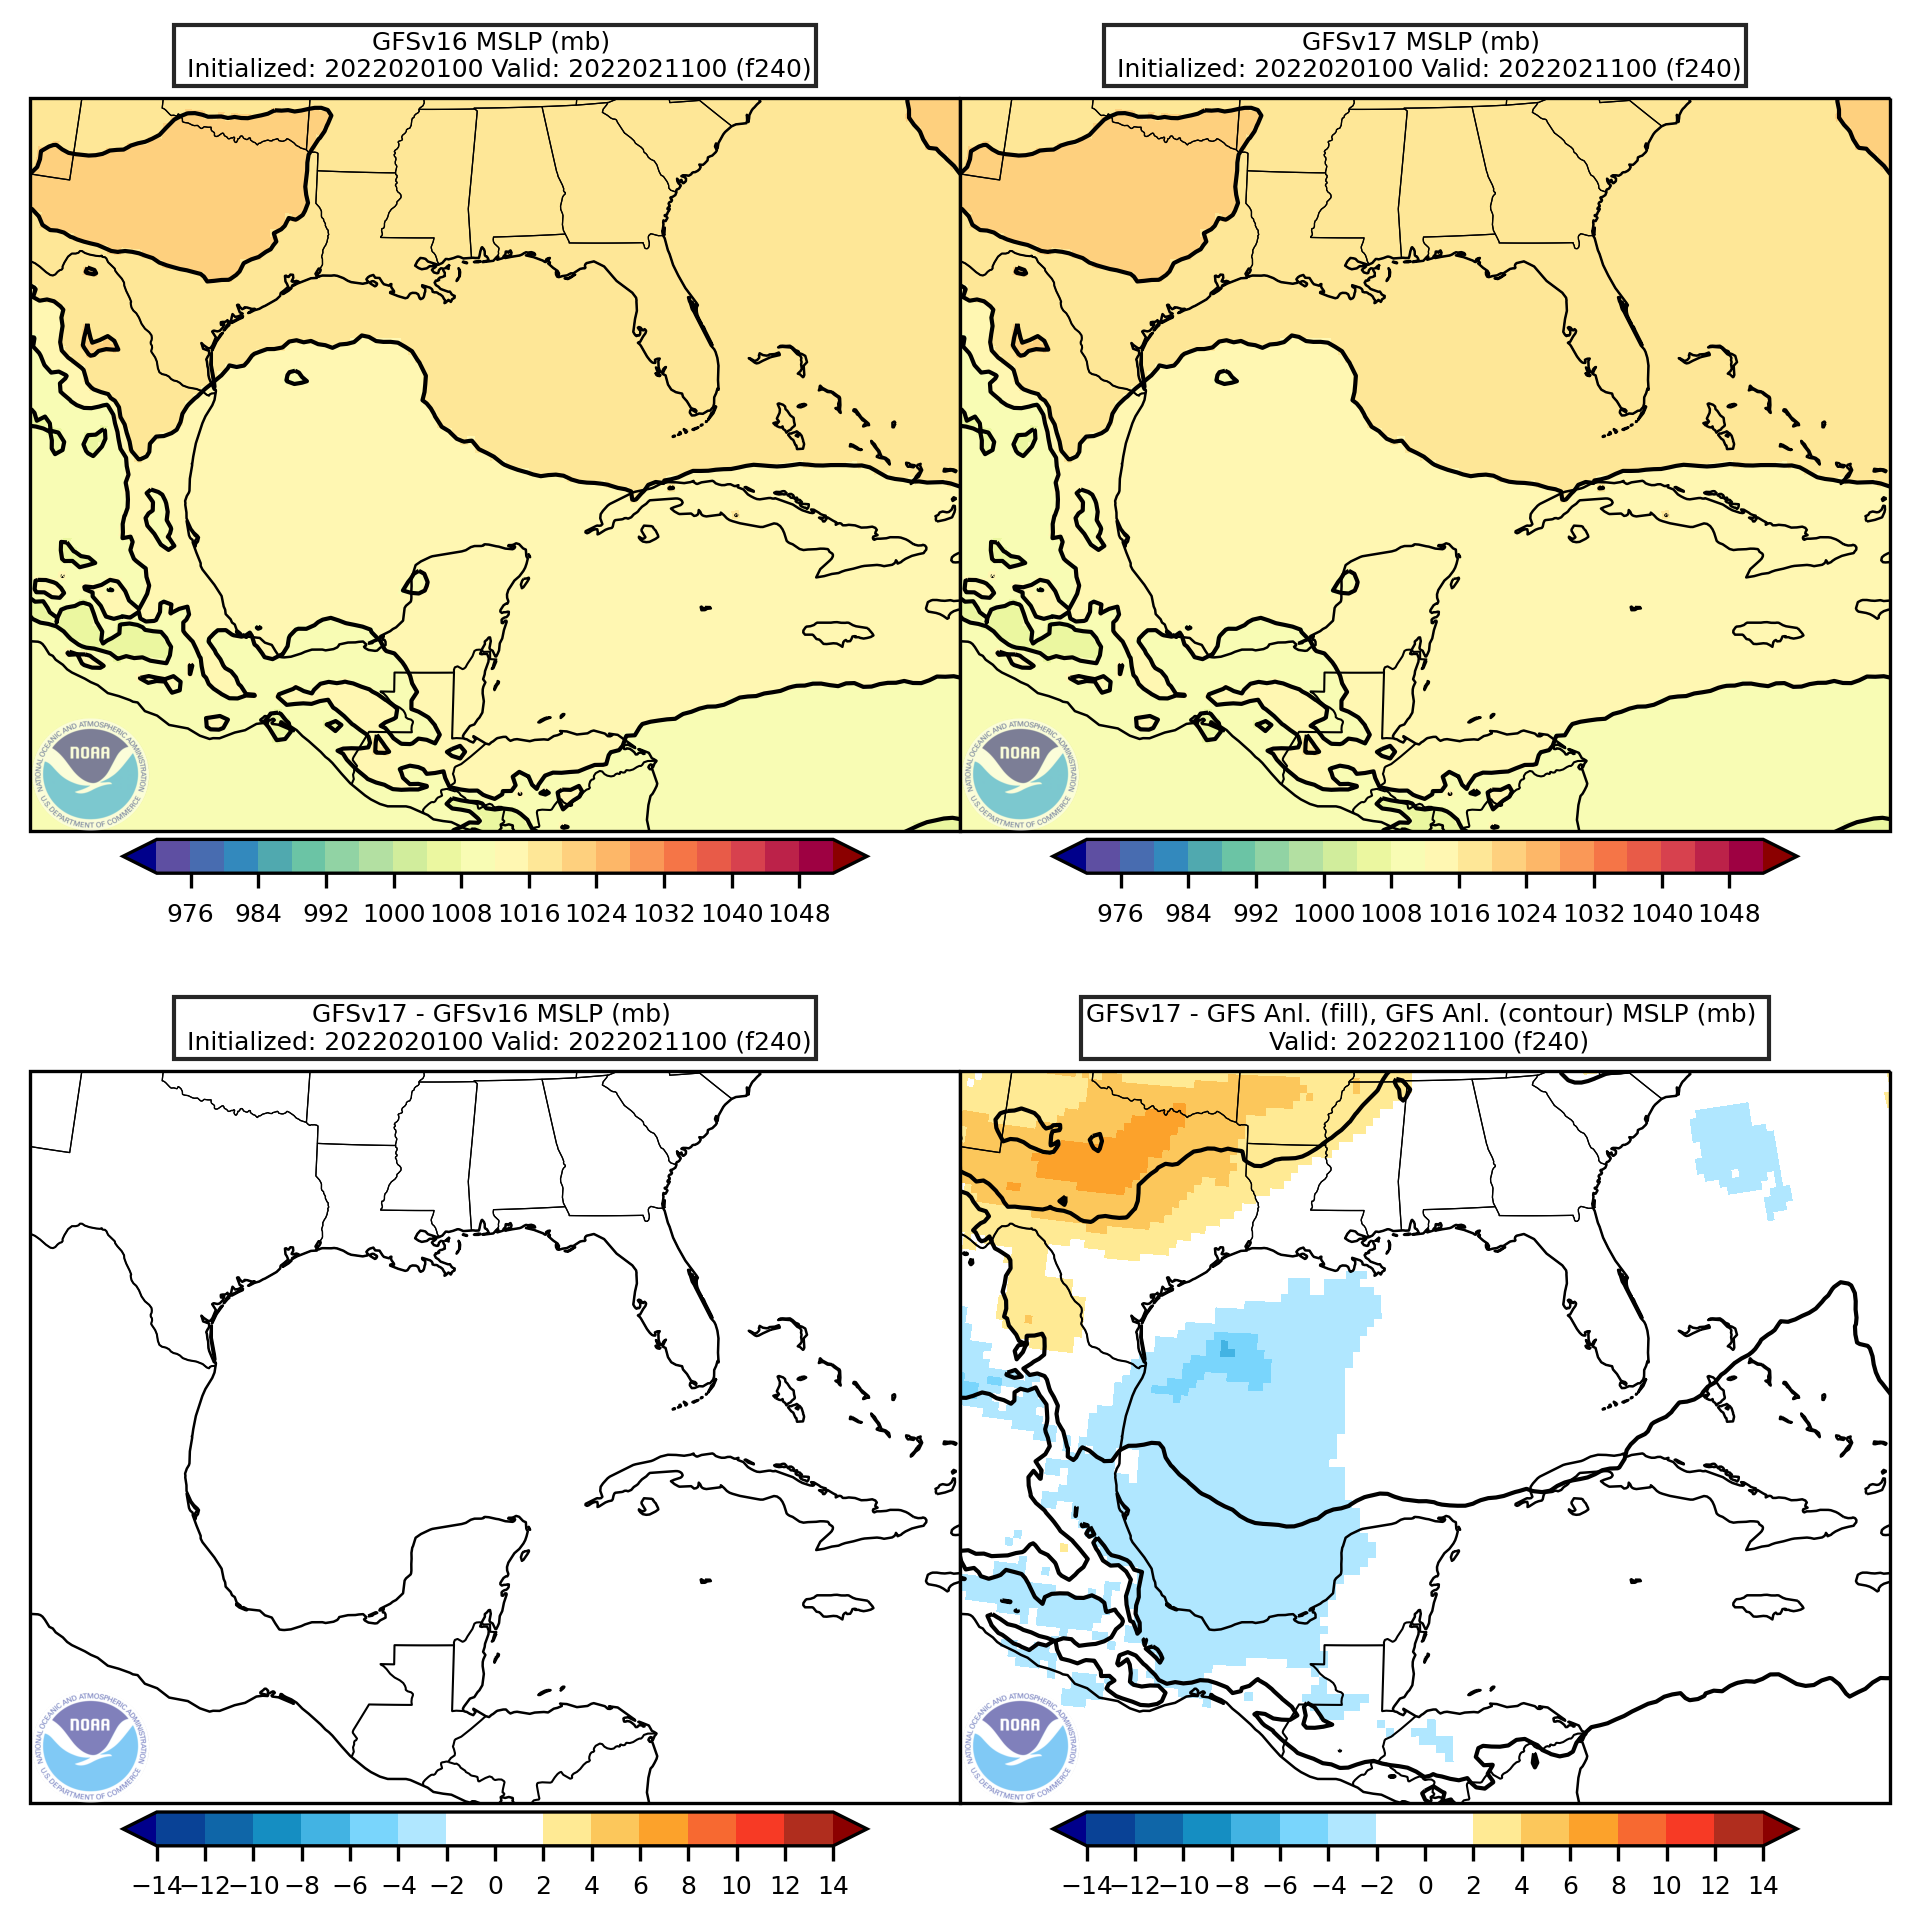
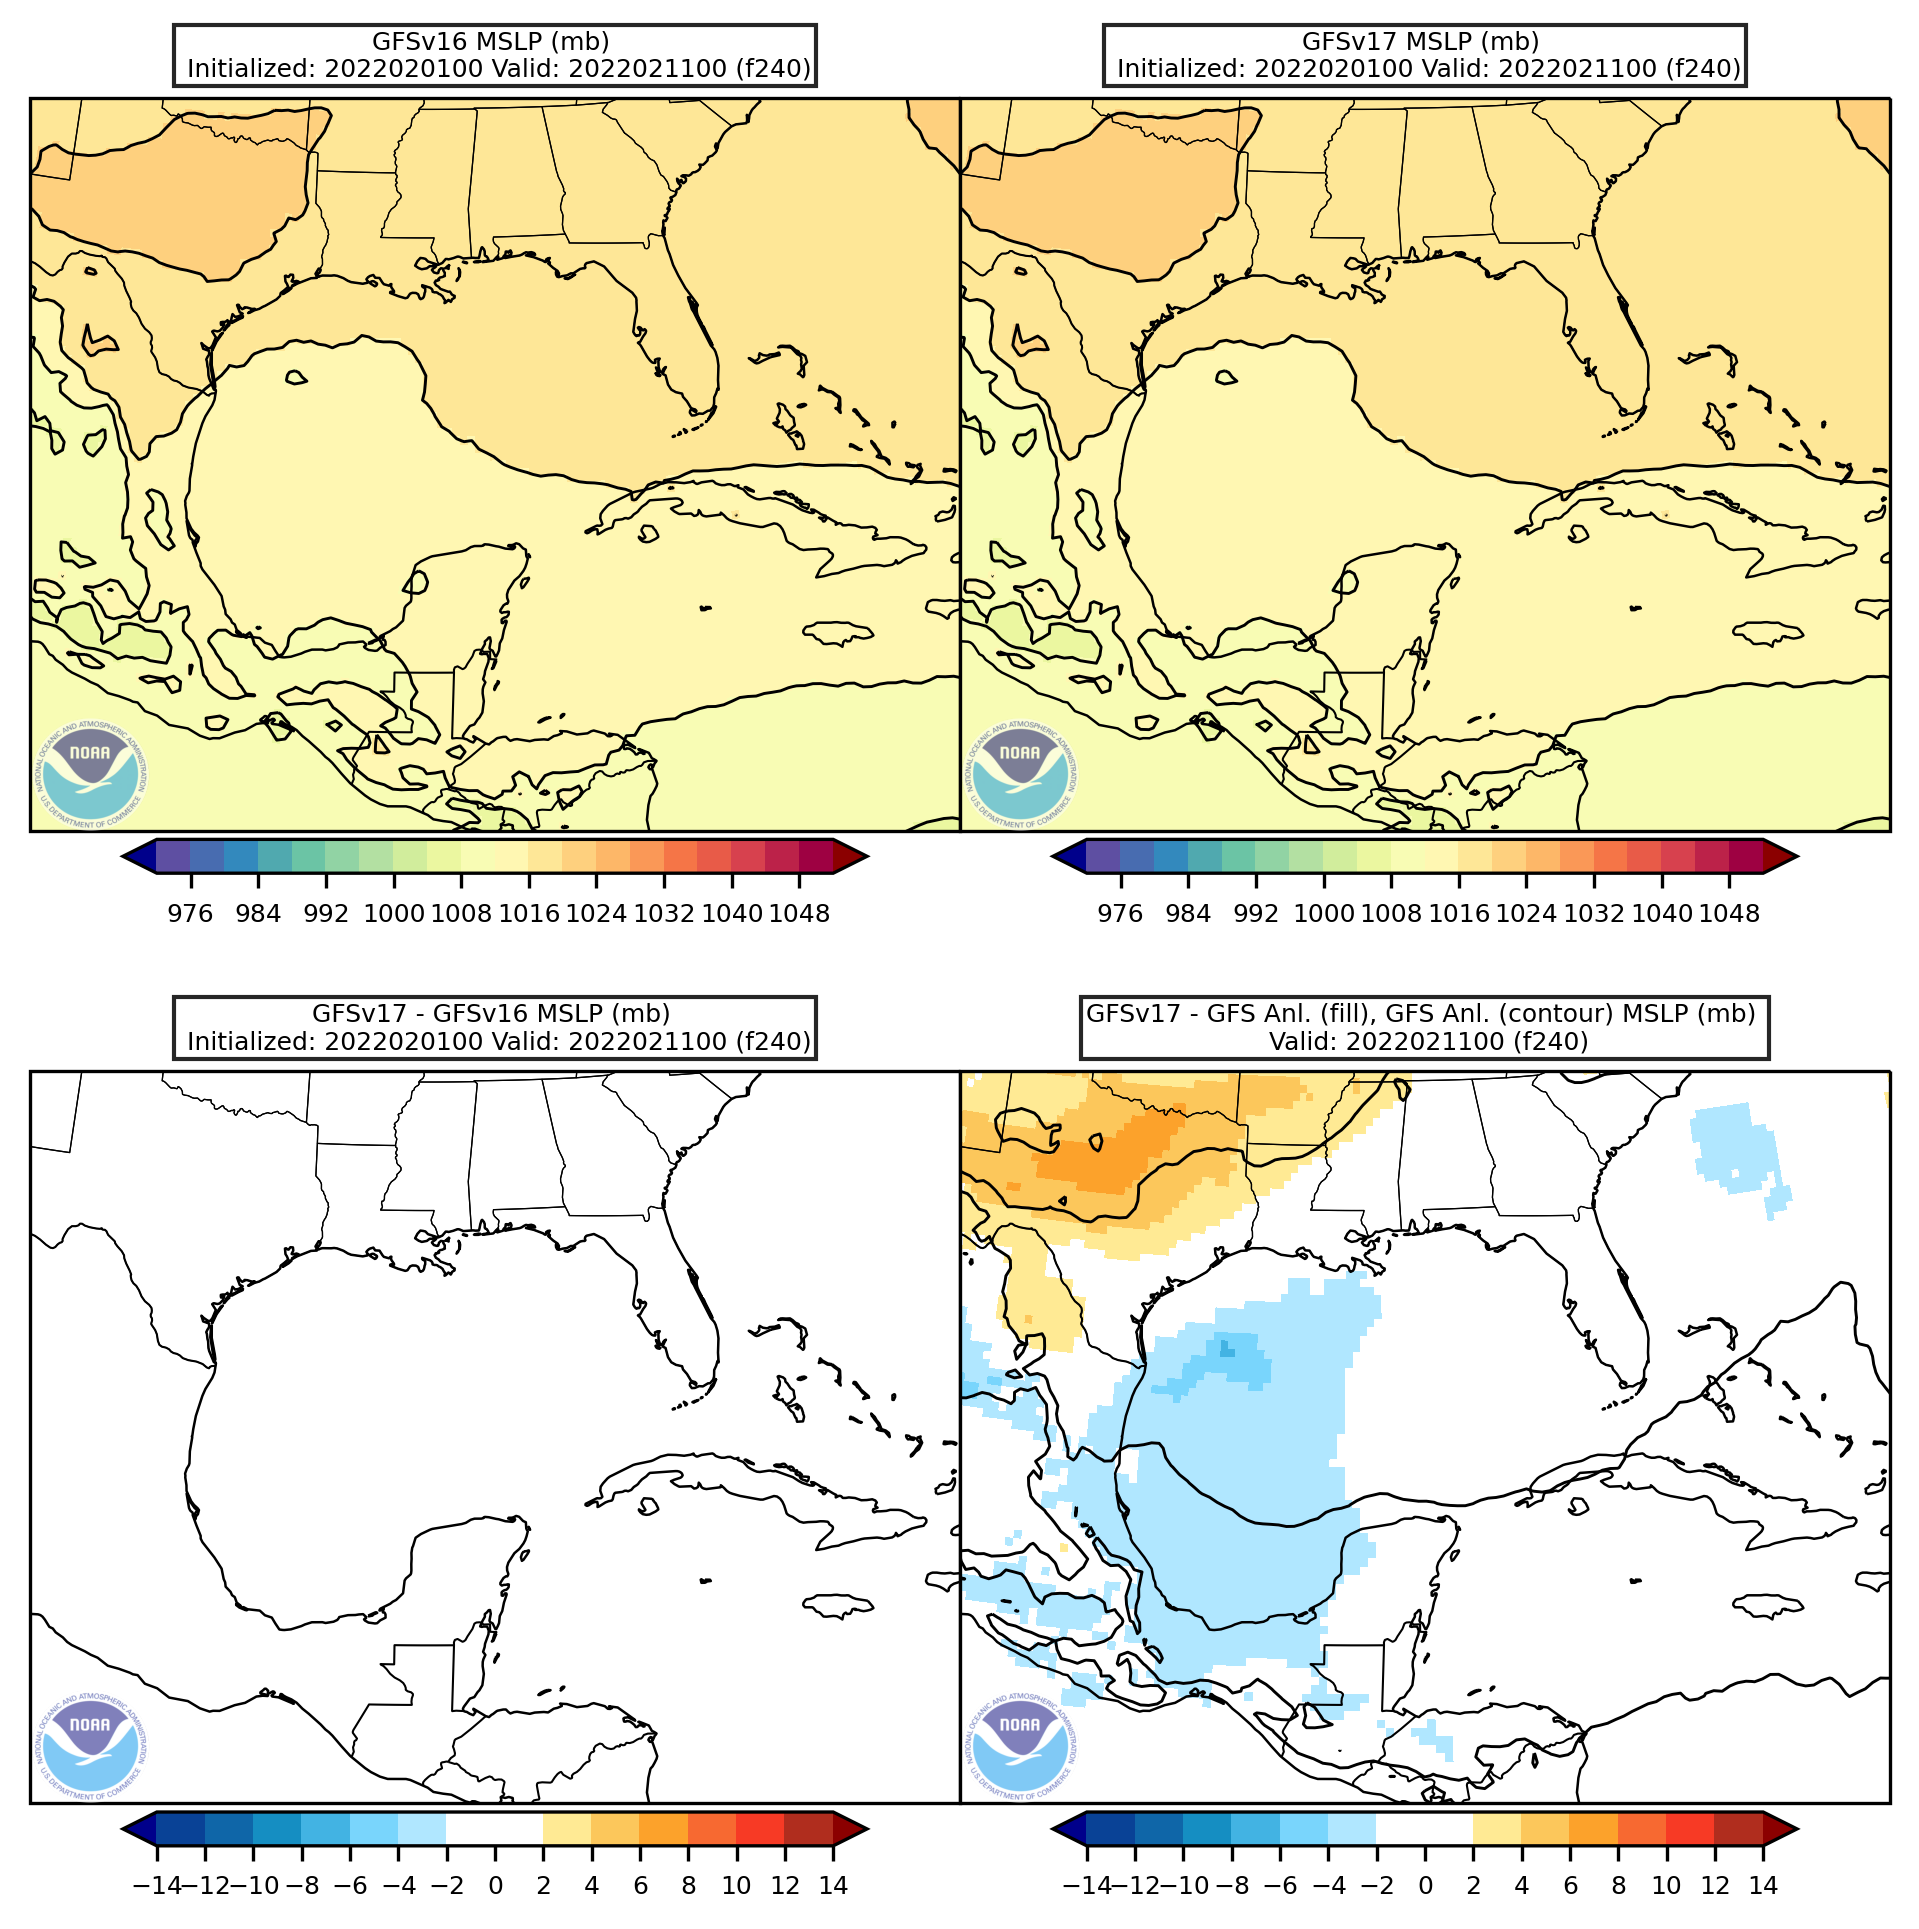
Updated gulfofmexico domain to use eastcoast layout and thicker lines

diff --git a/plot_maps/plot_gfs_slp_4panel.py b/plot_maps/plot_gfs_slp_4panel.py
@@ -464,7 +464,7 @@ def create_figure():
     ax2 = fig.add_subplot(gs[0:9,9:], projection=myproj)
     ax3 = fig.add_subplot(gs[4:,0:9], projection=myproj)
     ax4 = fig.add_subplot(gs[4:,9:], projection=myproj)
-  elif dom == 'eastcoast':
+  elif dom == 'eastcoast' or dom == 'gulfofmexico':
     fig = plt.figure(figsize=(8,8))
     gs = GridSpec(19,18,wspace=0.0,hspace=0.0)
     extent = [llcrnrlon,urcrnrlon,llcrnrlat,urcrnrlat]
@@ -475,7 +475,7 @@ def create_figure():
     ax2 = fig.add_subplot(gs[0:9,9:], projection=myproj)
     ax3 = fig.add_subplot(gs[10:,0:9], projection=myproj)
     ax4 = fig.add_subplot(gs[10:,9:], projection=myproj)
-  elif dom == 'gulfofmexico':
+  elif dom == 'alaska':
     fig = plt.figure(figsize=(8,8))
     gs = GridSpec(19,18,wspace=0.0,hspace=0.0)
     extent = [llcrnrlon,urcrnrlon,llcrnrlat,urcrnrlat]
@@ -629,6 +629,9 @@ def plot_set_1():
   elif dom == 'eastcoast':
     skip = 40
     thick = 0.6
+  elif dom == 'gulfofmexico':
+    skip = 40
+    thick = 0.7
   else:
     skip = 40
     thick = 1.0
